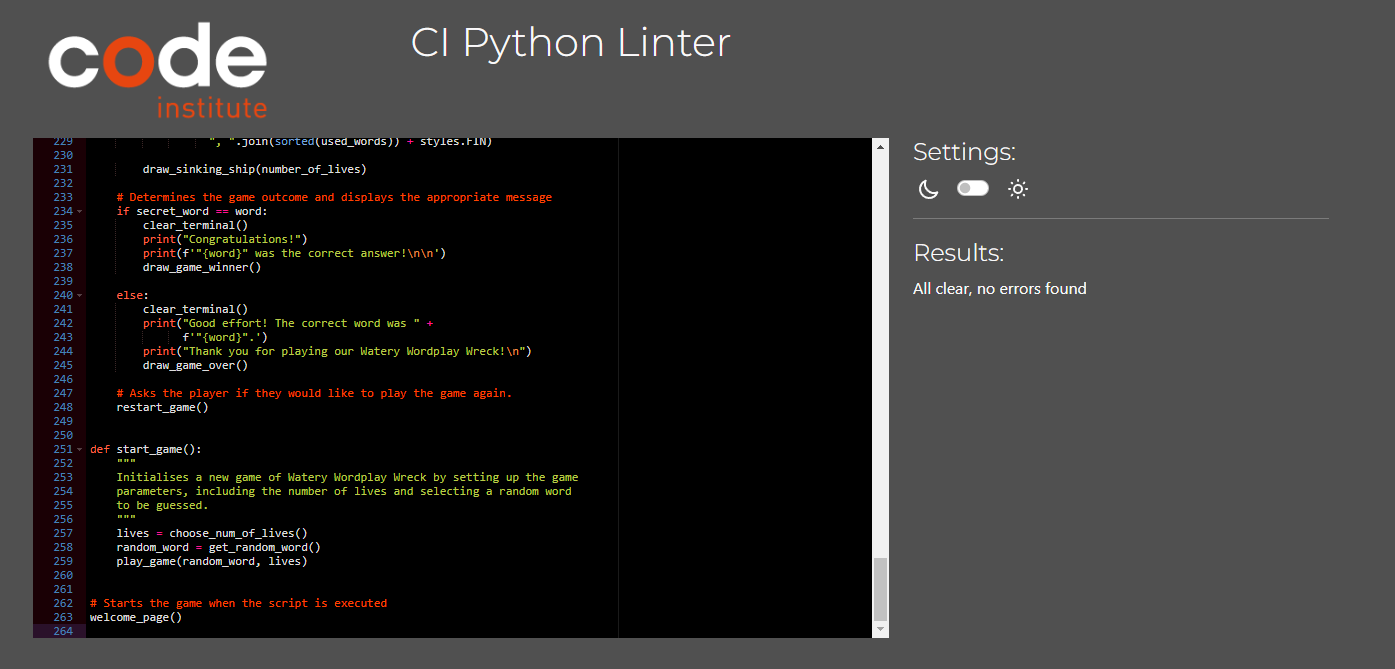
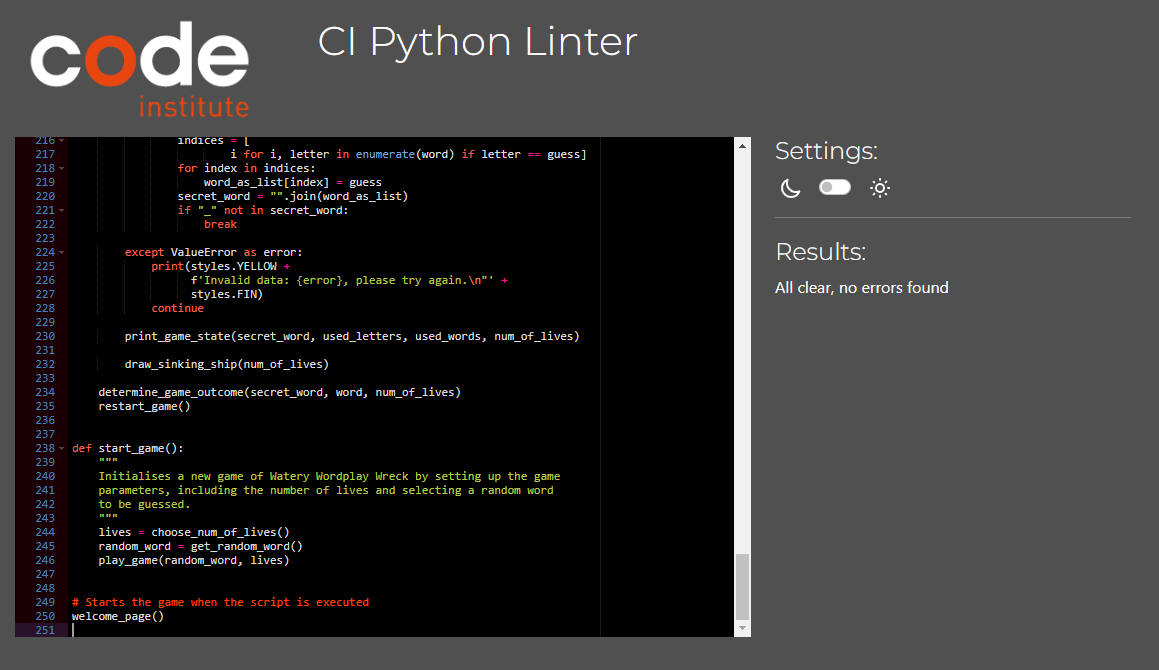
Update comments throughout

diff --git a/run.py b/run.py
@@ -92,9 +92,12 @@ def print_game_state(secret_word, used_letters, used_words, num_of_lives):
     else:
         print("Game Over")
 
+    # Displays the secret word area and word length
     print("\nYour " + styles.BOLD + str(len(secret_word)) +
           " LETTER " + styles.FIN + "word to guess is: " +
           secret_word)
+
+    # Displays lists of used letters and words to aid the user
     print(styles.BLUE + "Attempted letters: ",
           ", ".join(sorted(used_letters)) + styles.FIN)
     print(styles.BLUE + "Attempted words: ",
@@ -144,7 +147,7 @@ def restart_game():
 
 def play_game(word, num_of_lives):
     """
-    Plays the Watery Wordplay Wreck game.
+    Initiates and manages a round of the game
     """
     secret_word = "_" * len(word)
     used_letters = []
@@ -158,17 +161,20 @@ def play_game(word, num_of_lives):
 
     draw_sinking_ship(num_of_lives)
 
+    # Main game loop
     while num_of_lives > 0:
         guess = input(f"Please enter a {styles.BOLD}LETTER{styles.FIN} "
                       f"or a {styles.BOLD}WORD{styles.FIN}:\n").upper()
         clear_terminal()
 
         try:
+            # Checks if the input is not in the alphabet
             if not guess.isalpha():
                 print(styles.YELLOW +
                       f'Invalid input: "{guess}" is not a valid letter.')
                 print("Please enter a letter." + styles.FIN)
 
+            # Checks if the user input is a word of the correct length
             elif len(guess) == len(word) and guess.isalpha():
                 if guess in used_letters:
                     print(styles.YELLOW +
@@ -177,6 +183,8 @@ def play_game(word, num_of_lives):
                     print("Please enter a letter " +
                           f"or word containing {len(word)} letters." +
                           styles.FIN)
+
+                # Decrement lives, updates used letters and provides feedback 
                 elif guess != word:
                     if guess not in used_words:
                         num_of_lives -= 1
@@ -184,6 +192,8 @@ def play_game(word, num_of_lives):
                         print(styles.RED +
                               f'Sorry, "{guess}" is not the word.' +
                               styles.FIN)
+
+                    # Checks if input has already been used and alerts user
                     else:
                         print(styles.YELLOW +
                               f'You have already tried "{guess}".')
@@ -192,21 +202,26 @@ def play_game(word, num_of_lives):
                     secret_word = word
                     break
 
+            # Check if the user input is not a single letter or alphabetic
             elif len(guess) != 1 or not guess.isalpha():
                 print(styles.YELLOW +
                       f"Invalid input: you have entered {len(guess)} letters.")
                 print("Please enter a letter " +
                       f"or word containing {len(word)} letters." + styles.FIN)
 
+            # Checks if input has already been used and alerts user
             elif guess in used_letters:
                 print(styles.YELLOW + f'You have already tried "{guess}".')
                 print("Please try again!" + styles.FIN)
 
+            # Decrement lives, updates used letters and provides feedback
             elif guess not in word:
                 num_of_lives -= 1
                 used_letters.append(guess)
                 print(styles.RED +
                       f'Sorry, "{guess}" is not in the word.' + styles.FIN)
+
+            # Updates the secret word with the correct letters
             else:
                 used_letters.append(guess)
                 print(styles.GREEN + f'"{guess}" IS in the word!')
@@ -221,6 +236,7 @@ def play_game(word, num_of_lives):
                 if "_" not in secret_word:
                     break
 
+        # Handles invalid data input
         except ValueError as error:
             print(styles.YELLOW +
                   f'Invalid data: {error}, please try again.\n"' +
